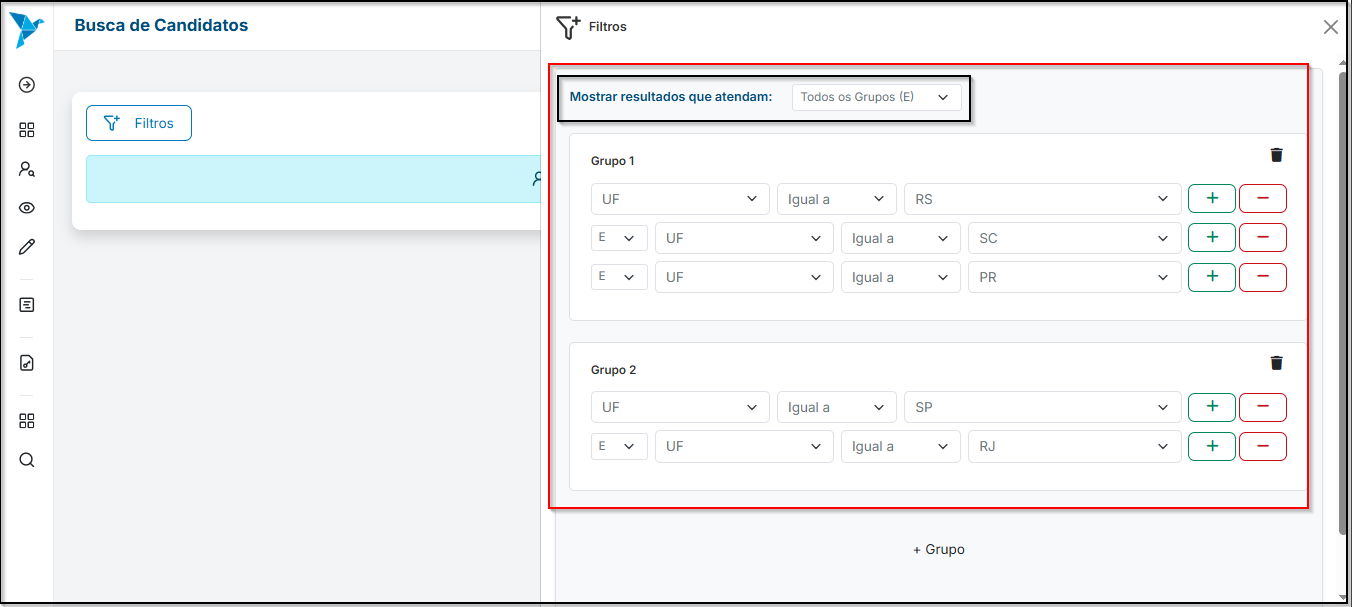
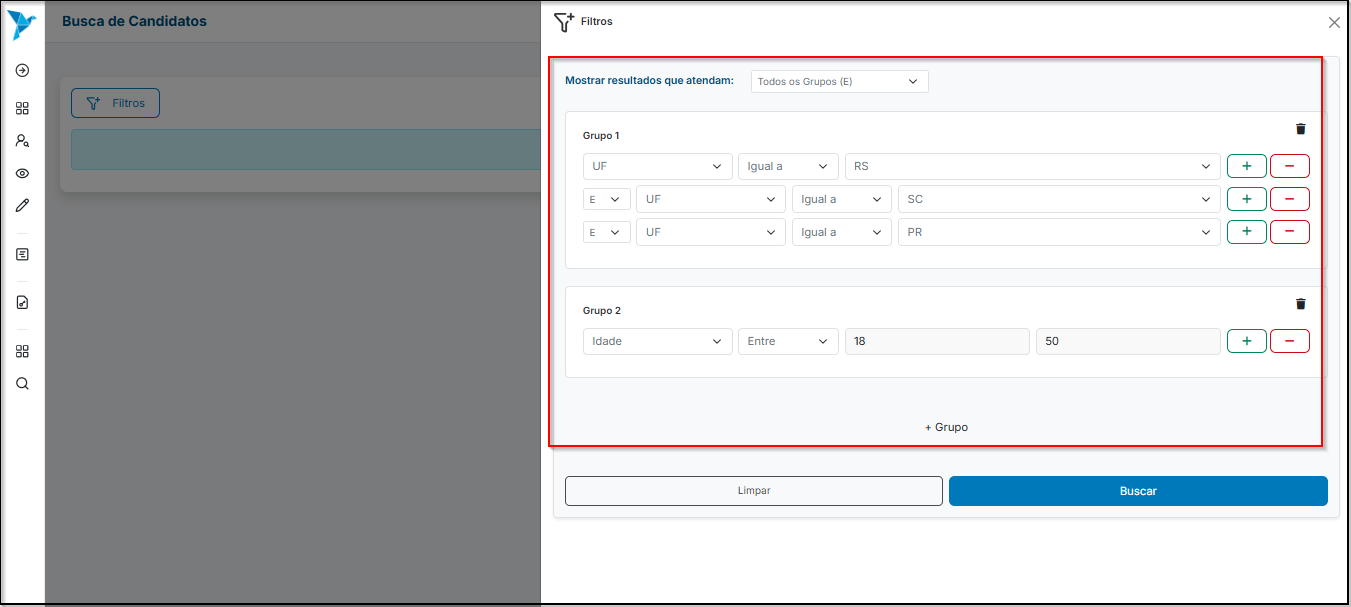
Alteração na explicação do "OU" e alteração nos exemplos.

diff --git a/site/empresa/busca-candidatos/index.html b/site/empresa/busca-candidatos/index.html
@@ -975,7 +975,7 @@
 <p><strong>Defina a opção em <code>Mostrar resultados que atendam</code>.</strong></p>
 <ul>
 <li><strong>Todos os Grupos (E):</strong> o candidato precisa atender a <strong>todos</strong> os critérios definidos.<ul>
-<li>Se estiver marcado como <strong>"E"</strong> , e conter dois grupos ou mais, o resultado vai filtrar as informações se atender ambos os grupos. (Ex. Quero filtrar os estados de RS, SC, PR que estão no <strong><code>Grupo 1</code></strong>, <strong><code>E</code></strong> quero filtrar os estados SP e RJ que estão <strong><code>Grupo 2</code></strong>. Logo o filtro será entre os estados RS, SC, PR, SP e RJ).
+<li>Se estiver marcado como <strong>"E"</strong> , e conter dois grupos ou mais, o resultado vai filtrar as informações se atender ambos os grupos. (Ex. Quero filtrar os estados de RS, SC, PR que estão no <strong><code>Grupo 1</code></strong>, <strong>E</strong> quero filtrar os estados SP e RJ que estão <strong><code>Grupo 2</code></strong>. Logo o filtro será entre os estados RS, SC, PR, SP e RJ).
 <a class="glightbox" data-type="image" data-width="auto" data-height="auto" href="../../imagens/Filtro-candidato/filtro_grupos_exemplo_if.png" data-desc-position="bottom"><img alt="Tela de busca que atendem o filtro E" src="../../imagens/Filtro-candidato/filtro_grupos_exemplo_if.png"></a></li>
 </ul>
 </li>
@@ -1103,7 +1103,7 @@
     <span class="md-icon" title="Última atualização">
       <svg xmlns="http://www.w3.org/2000/svg" viewBox="0 0 24 24"><path d="M21 13.1c-.1 0-.3.1-.4.2l-1 1 2.1 2.1 1-1c.2-.2.2-.6 0-.8l-1.3-1.3c-.1-.1-.2-.2-.4-.2m-1.9 1.8-6.1 6V23h2.1l6.1-6.1zM12.5 7v5.2l4 2.4-1 1L11 13V7zM11 21.9c-5.1-.5-9-4.8-9-9.9C2 6.5 6.5 2 12 2c5.3 0 9.6 4.1 10 9.3-.3-.1-.6-.2-1-.2s-.7.1-1 .2C19.6 7.2 16.2 4 12 4c-4.4 0-8 3.6-8 8 0 4.1 3.1 7.5 7.1 7.9l-.1.2z"></path></svg>
     </span>
-    <span class="git-revision-date-localized-plugin git-revision-date-localized-plugin-date" title="1 de outubro de 2025 12:14:52 UTC">1 de outubro de 2025</span>
+    <span class="git-revision-date-localized-plugin git-revision-date-localized-plugin-date" title="1 de outubro de 2025 12:16:50 UTC">1 de outubro de 2025</span>
   </span>
 
     

diff --git a/docs/empresa/busca-candidatos.md b/docs/empresa/busca-candidatos.md
@@ -20,10 +20,10 @@ Utilizar filtros avançados para localizar candidatos de acordo com critérios e
 
 2. **Defina a opção em ``Mostrar resultados que atendam``.**
       - **Todos os Grupos (E):** o candidato precisa atender a **todos** os critérios definidos.
-        - Se estiver marcado como **"E"** , e conter dois grupos ou mais, o resultado vai filtrar as informações se atender ambos os grupos. (Ex. Quero filtrar os estados de RS, SC, PR que estão no **``Grupo 1``**, **E** quero filtrar os estados SP e RJ que estão **``Grupo 2``**. Logo o filtro será entre os estados RS, SC, PR, SP e RJ).
+        - Se estiver marcado como **"E"** , e conter dois grupos ou mais, o resultado vai filtrar as informações se atender ambos os grupos. (Ex. Quero filtrar os estados de RS, SC, PR que estão no **``Grupo 1``**, **E** quero filtrar o candidato que tenha idade entre 18 e 50 anos no **``Grupo 2``**. Logo o filtro irá mesclar os dois grupos, filtrando entre os estados RS, SC, PR e candidatos que tenham idade entre 18 e 50 anos).
         ![Tela de busca que atendem o filtro E](../imagens/Filtro-candidato/filtro_grupos_exemplo_if.png)
       - **Qualquer Grupo (OU):** o candidato pode atender a **um ou mais** dos critérios definidos.
-        - Se tiver marcado como **"OU"**, e um grupo não encontrar algum resultado ele trará o filtro do outro grupo. (Ex. Quero filtrar os estados de RS, SC, PR que estão no **``Grupo 1``** **OU** filtrar os estados SP e RJ no **``Grupo 2``**. O filtro irá filtrar os campos RS, SC e PR, caso não encontre nenhum candidato desse estado ele irá filtrar por SP e RJ).
+        - Se tiver marcado como **"OU"**, será filtro um/ou mais grupos. (Ex. Quero filtrar os estados de RS, SC, PR que estão no **``Grupo 1``** **OU** filtrar o candidato que tenha idade entre 18 e 50 anos no **``Grupo 2``**. O filtro irá filtrar os campos RS, SC e PR e irá filtrar por candidatos que possuem uma idade entre 18 e 50 anos).
         ![Tela de busca que atendem o filtro OU](../imagens/Filtro-candidato/filtro_grupos_exemplo_else.png)
 
 3. **Em ``Grupo 1``, configure**
